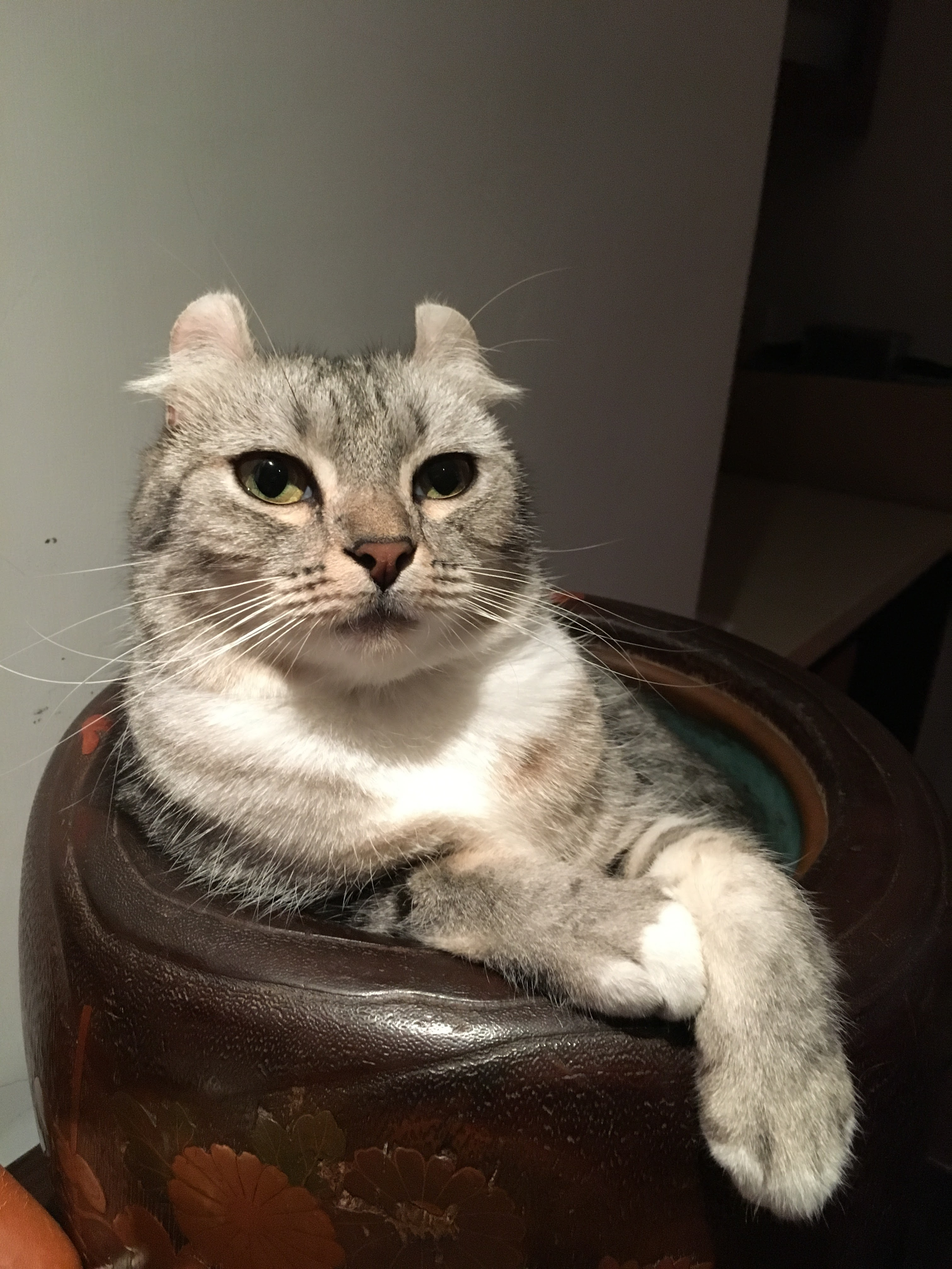
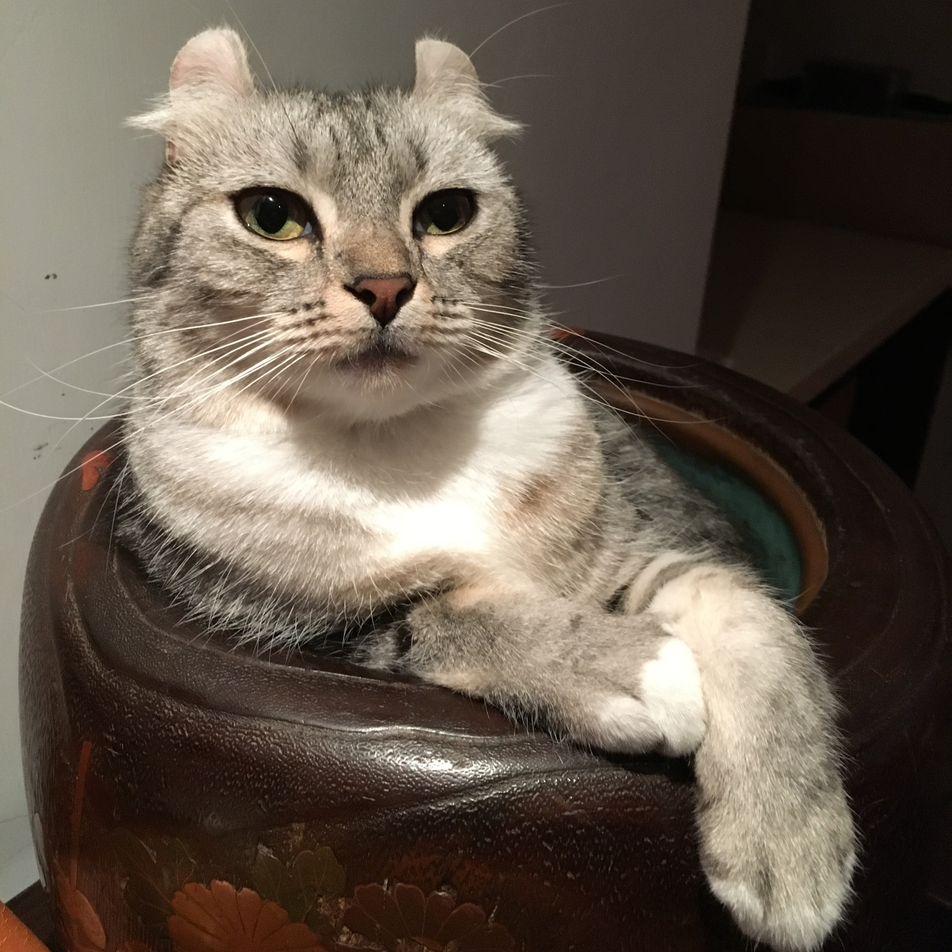
update index

diff --git a/index.html b/index.html
@@ -95,7 +95,7 @@
         <a href="https://arxiv.org/abs/2405.10531">arXiv</a>
         <p></p>
         <p>
-          (abstract tbd)
+          We showed that teaching an overparameterized MLP is consistent with teaching a nonparametric learner and proposed a sampling method that improves training time of neural fields by 30+%.
         </p>
       </td>
     </tr>
@@ -127,7 +127,8 @@
         <a href="https://arxiv.org/abs/2405.12398">arXiv</a>
         <p></p>
         <p>
-          (abstract tbd)
+          An alternative neural field architecture with near O(1) inference complexity irrespective of the number of layers. This reduces the MAC of a vanilla SIREN model by up to 500x while achieving superior reconstruction quality.
+
         </p>
       </td>
     </tr>   
@@ -153,7 +154,7 @@
         <a href="https://drive.google.com/file/d/1dEt2Xyut97sVZ7PD7dxYP_Fb7sM0k91O/view?usp=drive_link">poster</a>
         <p></p>
         <p>
-          (abstract tbd)
+          Demonstrated that differences in learnt representations for classification tasks (i.e. analogous to ventral stream) and grasping tasks (i.e. analogous to dorsal strema) are driven by task requirements instead of inherited from architectural differences.
         </p>
       </td>
     </tr>
